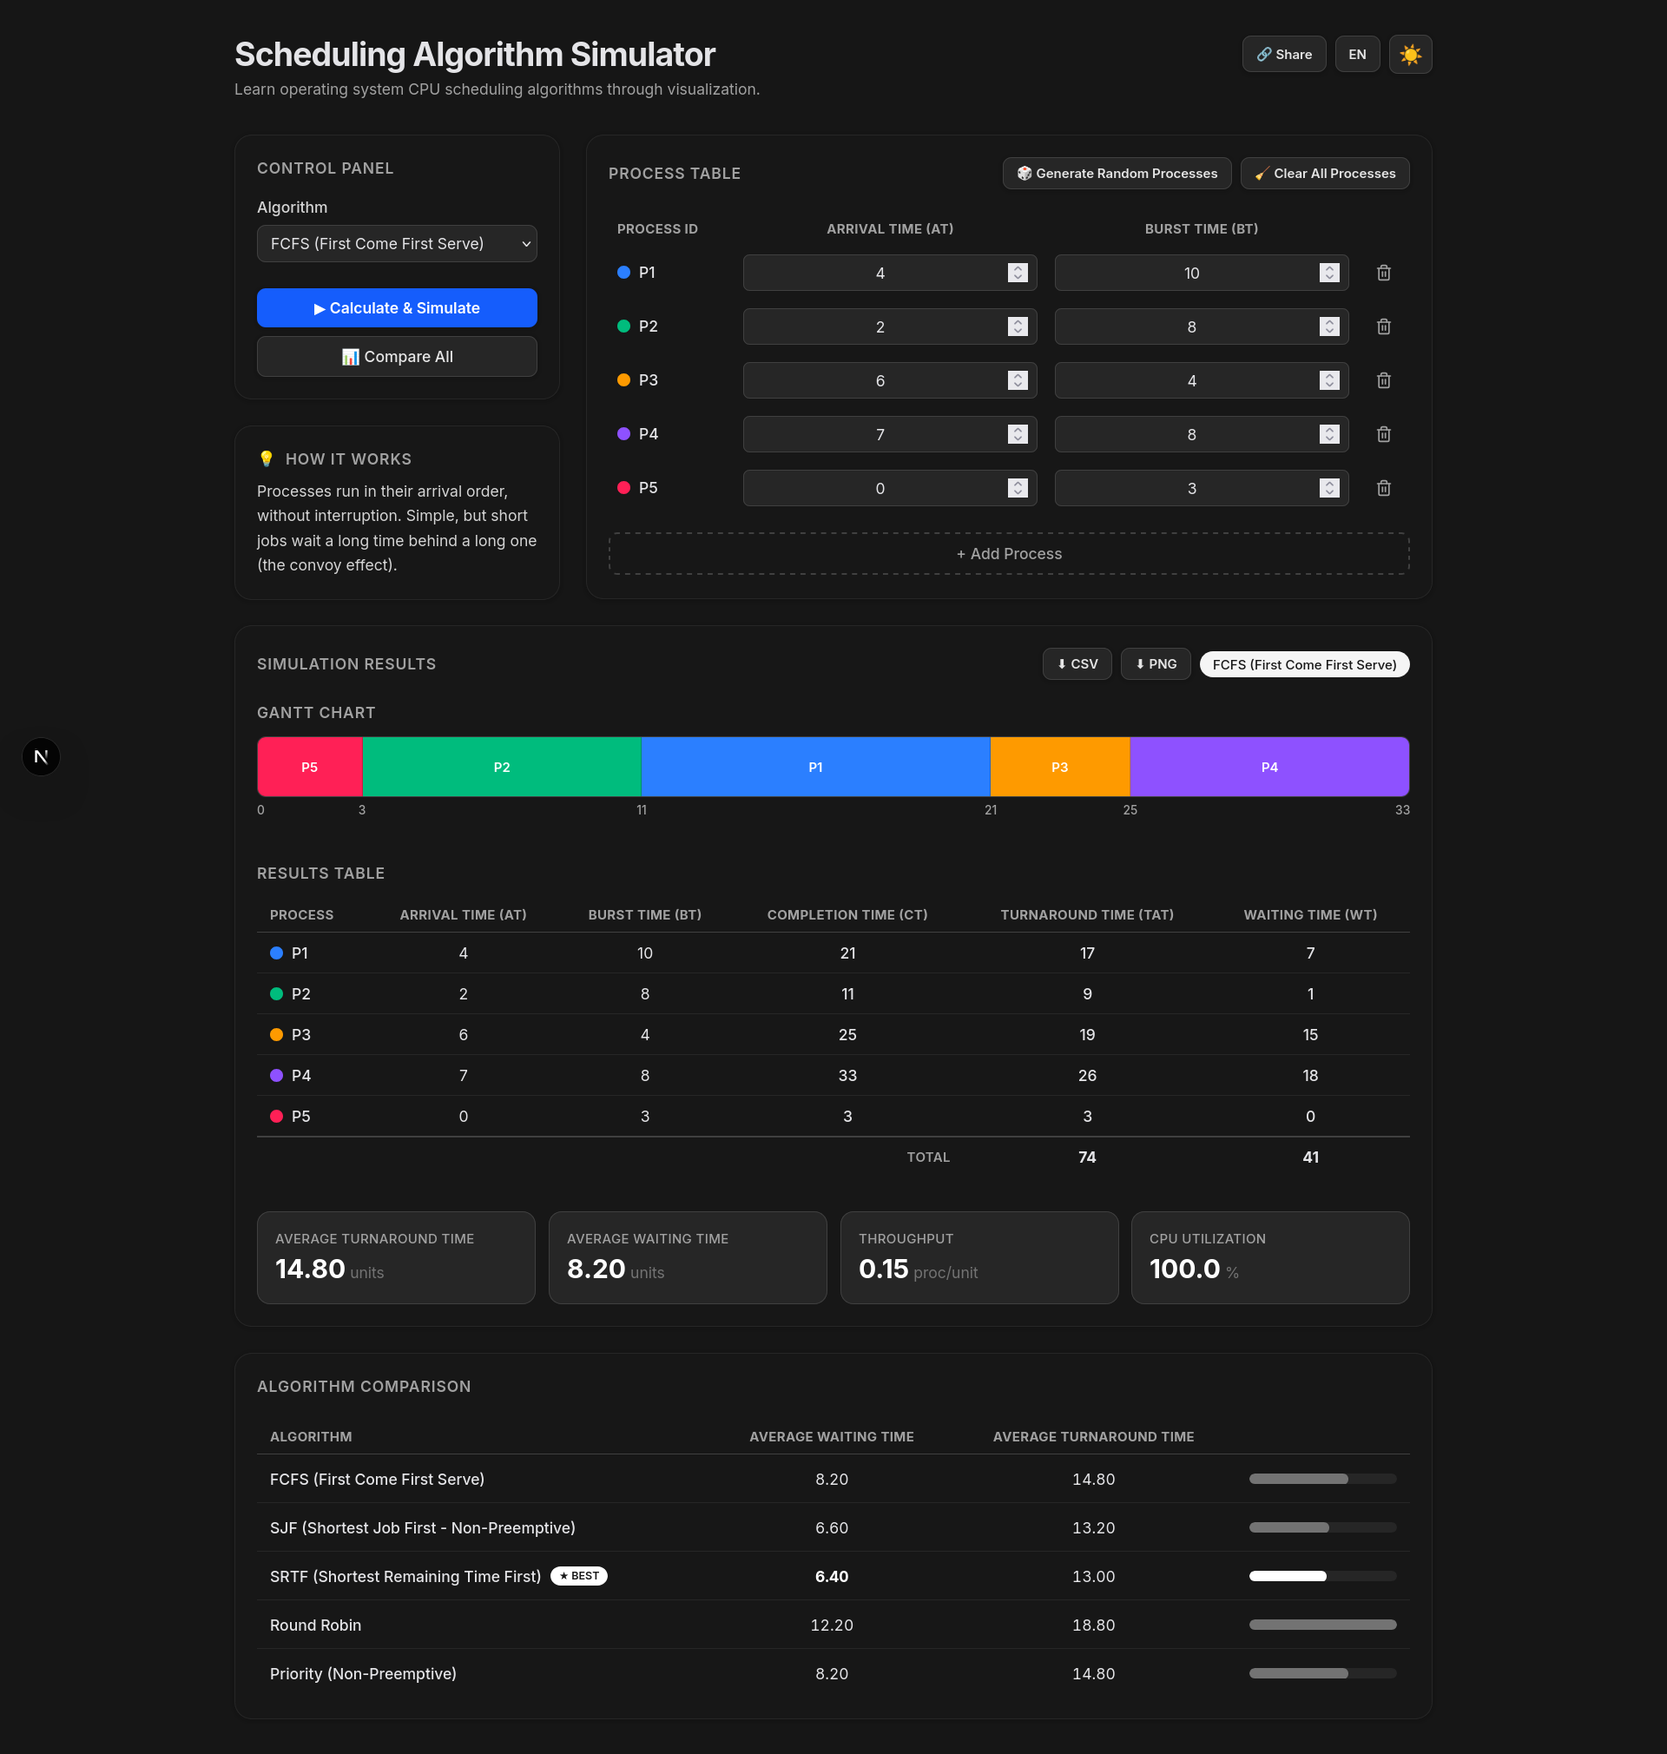
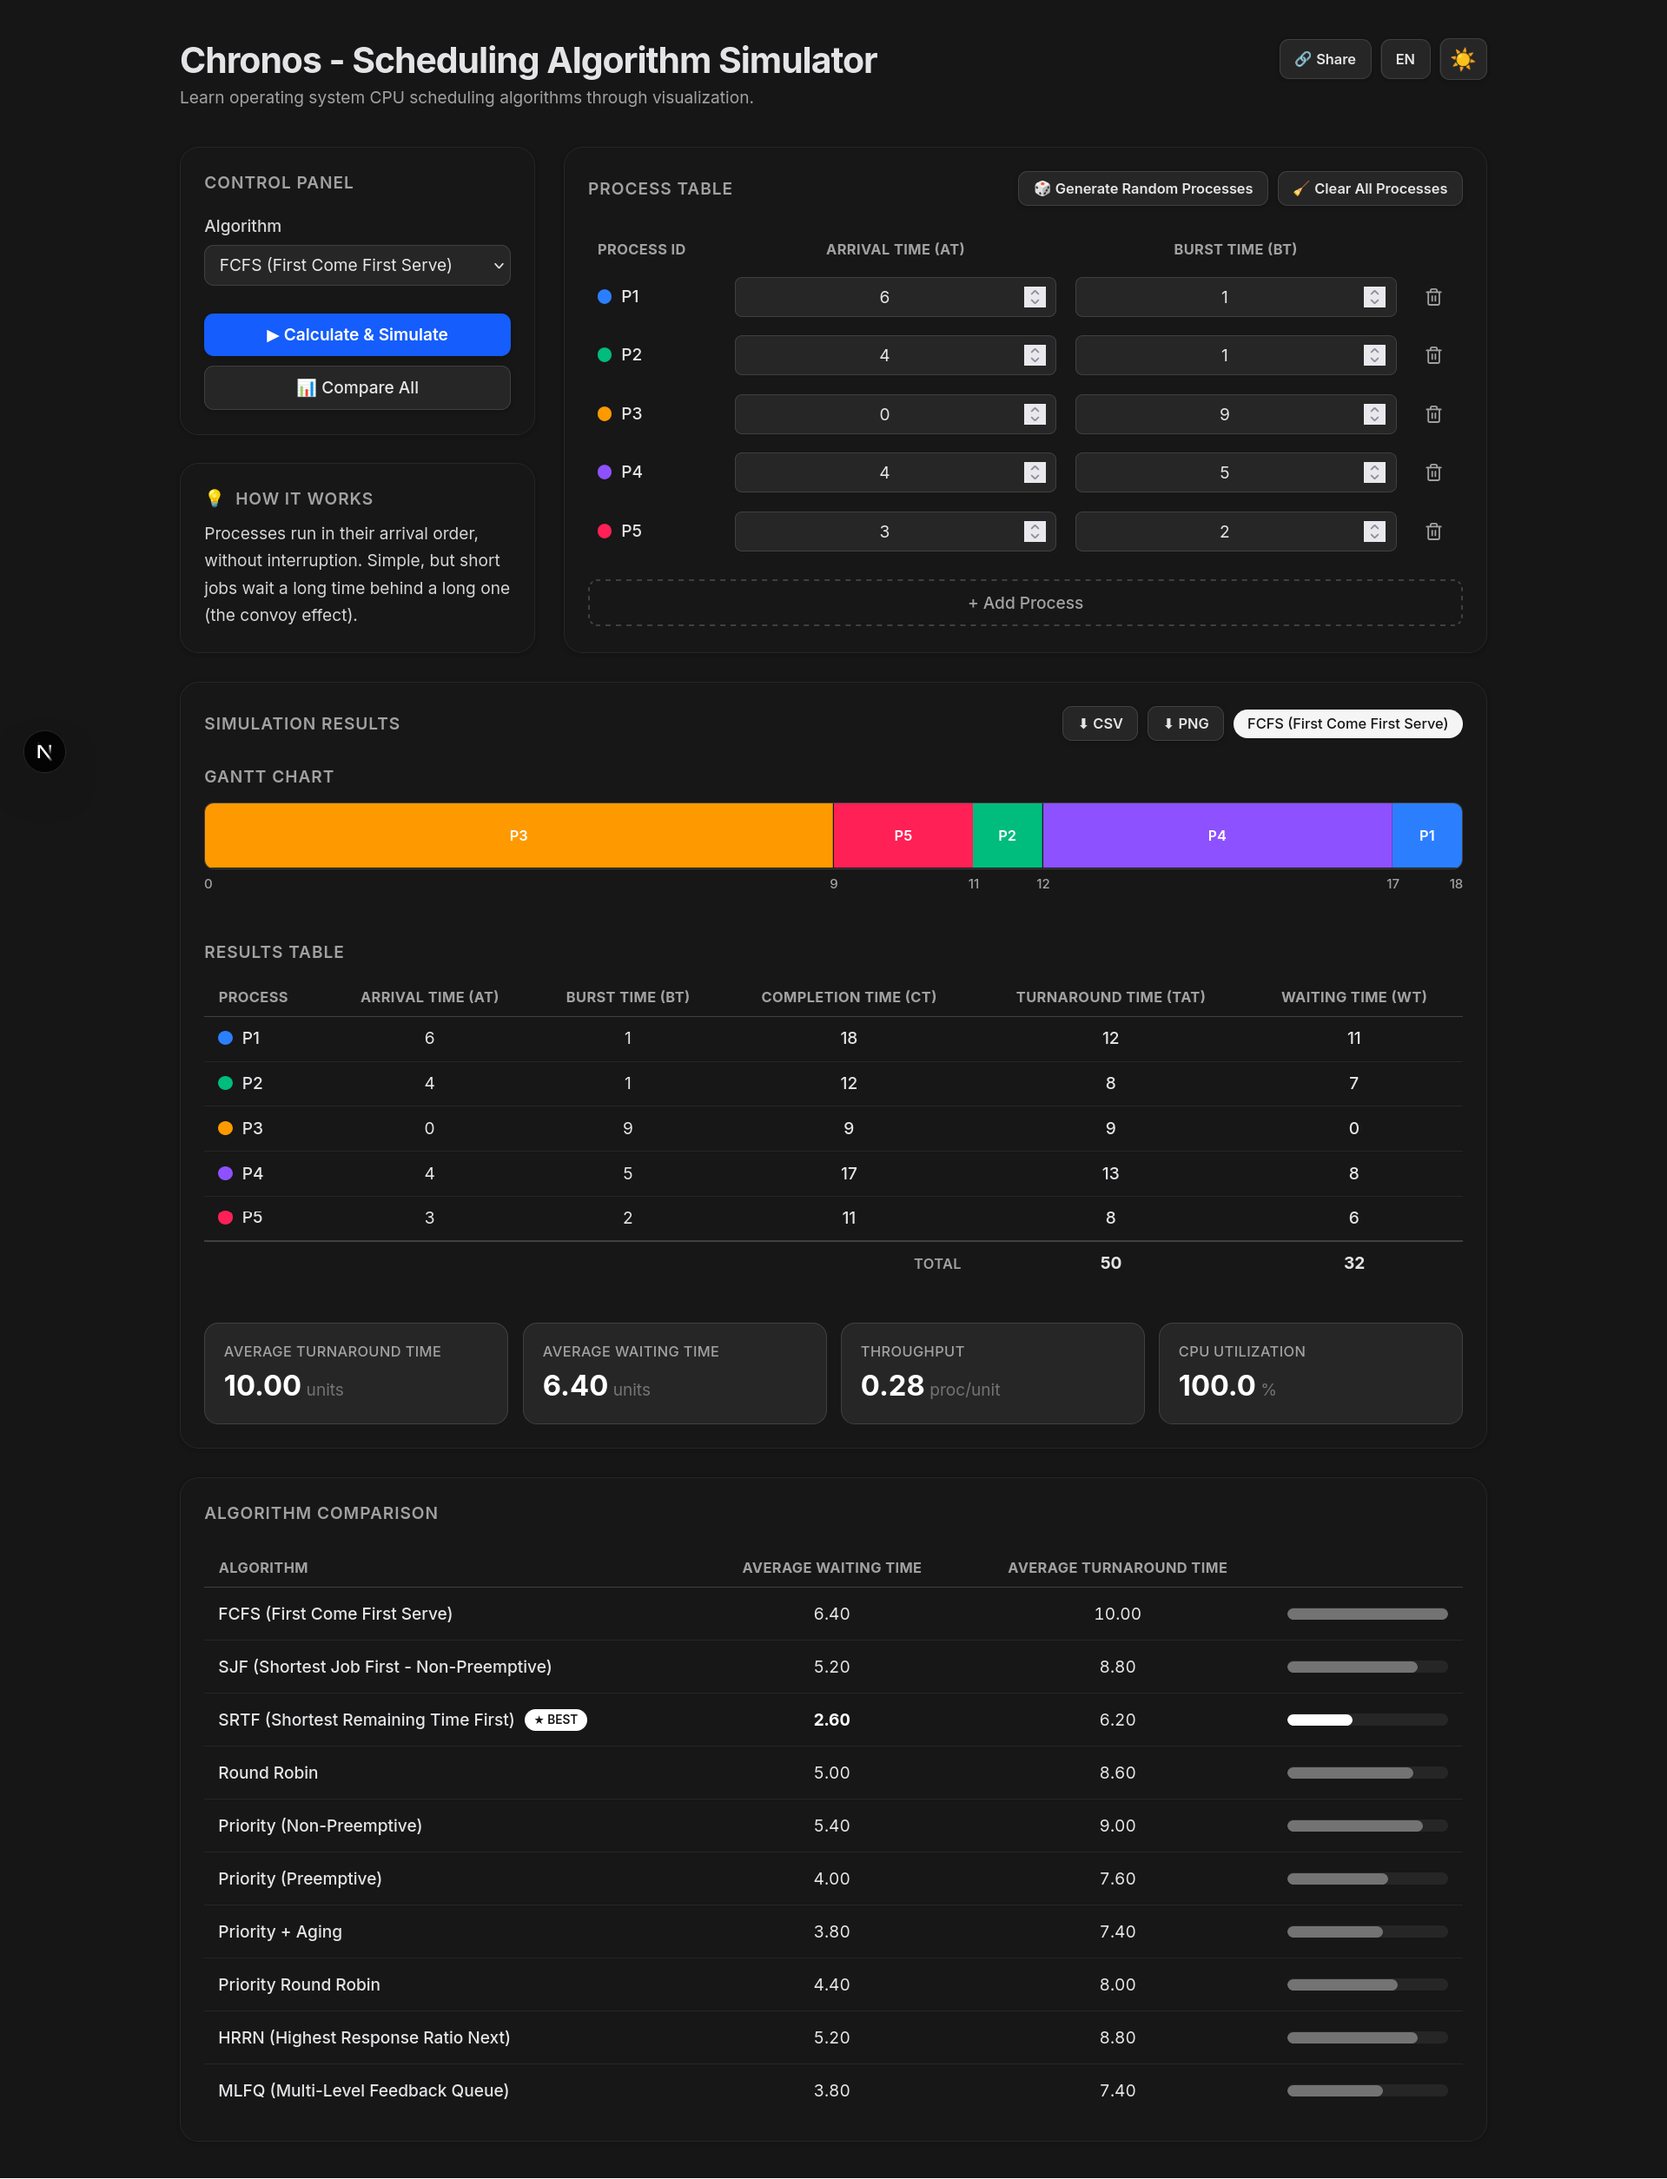
docs: add sectioned screenshots and refresh README

diff --git a/README.md b/README.md
@@ -1,8 +1,8 @@
 # Chronos — Scheduling Algorithm Simulator
 
-Chronos is an interactive, bilingual (TR/EN) educational tool for visualizing operating-system CPU scheduling algorithms. Enter processes, run a scheduler, and watch the Gantt chart, per-process metrics, and averages update instantly — or compare every algorithm side by side to see which one performs best.
+Chronos is an interactive, bilingual (TR/EN) educational tool for visualizing operating-system CPU scheduling algorithms. Enter processes, run a scheduler, and watch the Gantt chart, per-process metrics, and averages update instantly — or compare all ten algorithms side by side to see which one performs best.
 
-![Chronos — Scheduling Algorithm Simulator](docs/image.png)
+![Chronos — process input and control panel](docs/screenshot-input.png)
 
 ## Features
 
@@ -15,6 +15,19 @@ Chronos is an interactive, bilingual (TR/EN) educational tool for visualizing op
 - **Export** — Download results as CSV or the Gantt chart as PNG.
 - **Shareable links** — The current algorithm and process set are encoded into the URL; opening a shared link restores the inputs and runs the simulation automatically.
 - **Theme & language** — Light/dark mode and Turkish/English toggles, both persisted in `localStorage`.
+- **Algorithm explanations** — A "How It Works" card summarizes the selected algorithm in plain language.
+
+## Simulation Results
+
+Each run renders a color-coded Gantt chart (idle periods included), a per-process results table with CT/TAT/WT columns and totals, and four aggregate metric cards. Results can be exported as CSV or PNG with one click.
+
+![Chronos — Gantt chart, results table, and metrics](docs/screenshot-results.png)
+
+## Algorithm Comparison
+
+**Compare All** runs every algorithm on the same process set, ranks them with proportional waiting-time bars, and marks the best performer by average waiting time.
+
+![Chronos — algorithm comparison](docs/screenshot-comparison.png)
 
 ## Algorithms
 
@@ -55,10 +68,10 @@ Open [http://localhost:3000](http://localhost:3000) in your browser.
 
 ## Usage
 
-1. Pick an algorithm from the control panel (set a time quantum when Round Robin is selected).
+1. Pick an algorithm from the control panel (set a time quantum for Round Robin, Priority Round Robin, or MLFQ).
 2. Edit the process table by hand, or hit **Generate Random Processes** to get a starter set.
-3. Run the simulation to render the Gantt chart, per-process results, and aggregate metrics.
-4. Use **Compare** to run every algorithm on the same input and see the best performer by average waiting time.
+3. Run **Calculate & Simulate** to render the Gantt chart, per-process results, and aggregate metrics.
+4. Use **Compare All** to run every algorithm on the same input and see the best performer by average waiting time.
 5. Export the results as CSV or the Gantt chart as PNG, or copy a shareable link that encodes the entire setup.
 
 ### Shareable links
@@ -77,7 +90,7 @@ The active setup is encoded into the query string as `?algo=RR&tq=3&p=AT-BT-PR,A
 
 ## Testing
 
-Unit tests cover the scheduling algorithms, timeline computation, and the export/share logic. Run them with:
+Unit tests cover all ten scheduling algorithms (with hand-verified Gantt charts for preemption, aging, and demotion scenarios), timeline computation, and the export/share logic. Run them with:
 
 ```bash
 npm test
@@ -89,6 +102,7 @@ npm test
 app/          Next.js App Router entry (layout, page, global styles)
 components/   React UI components (control panel, tables, charts, toggles)
 lib/          Scheduling algorithms, timeline, export, share, and i18n logic
+  algorithms/   One module per scheduler + shared helpers and tests
 docs/         Screenshots and other documentation assets
 ```
 
